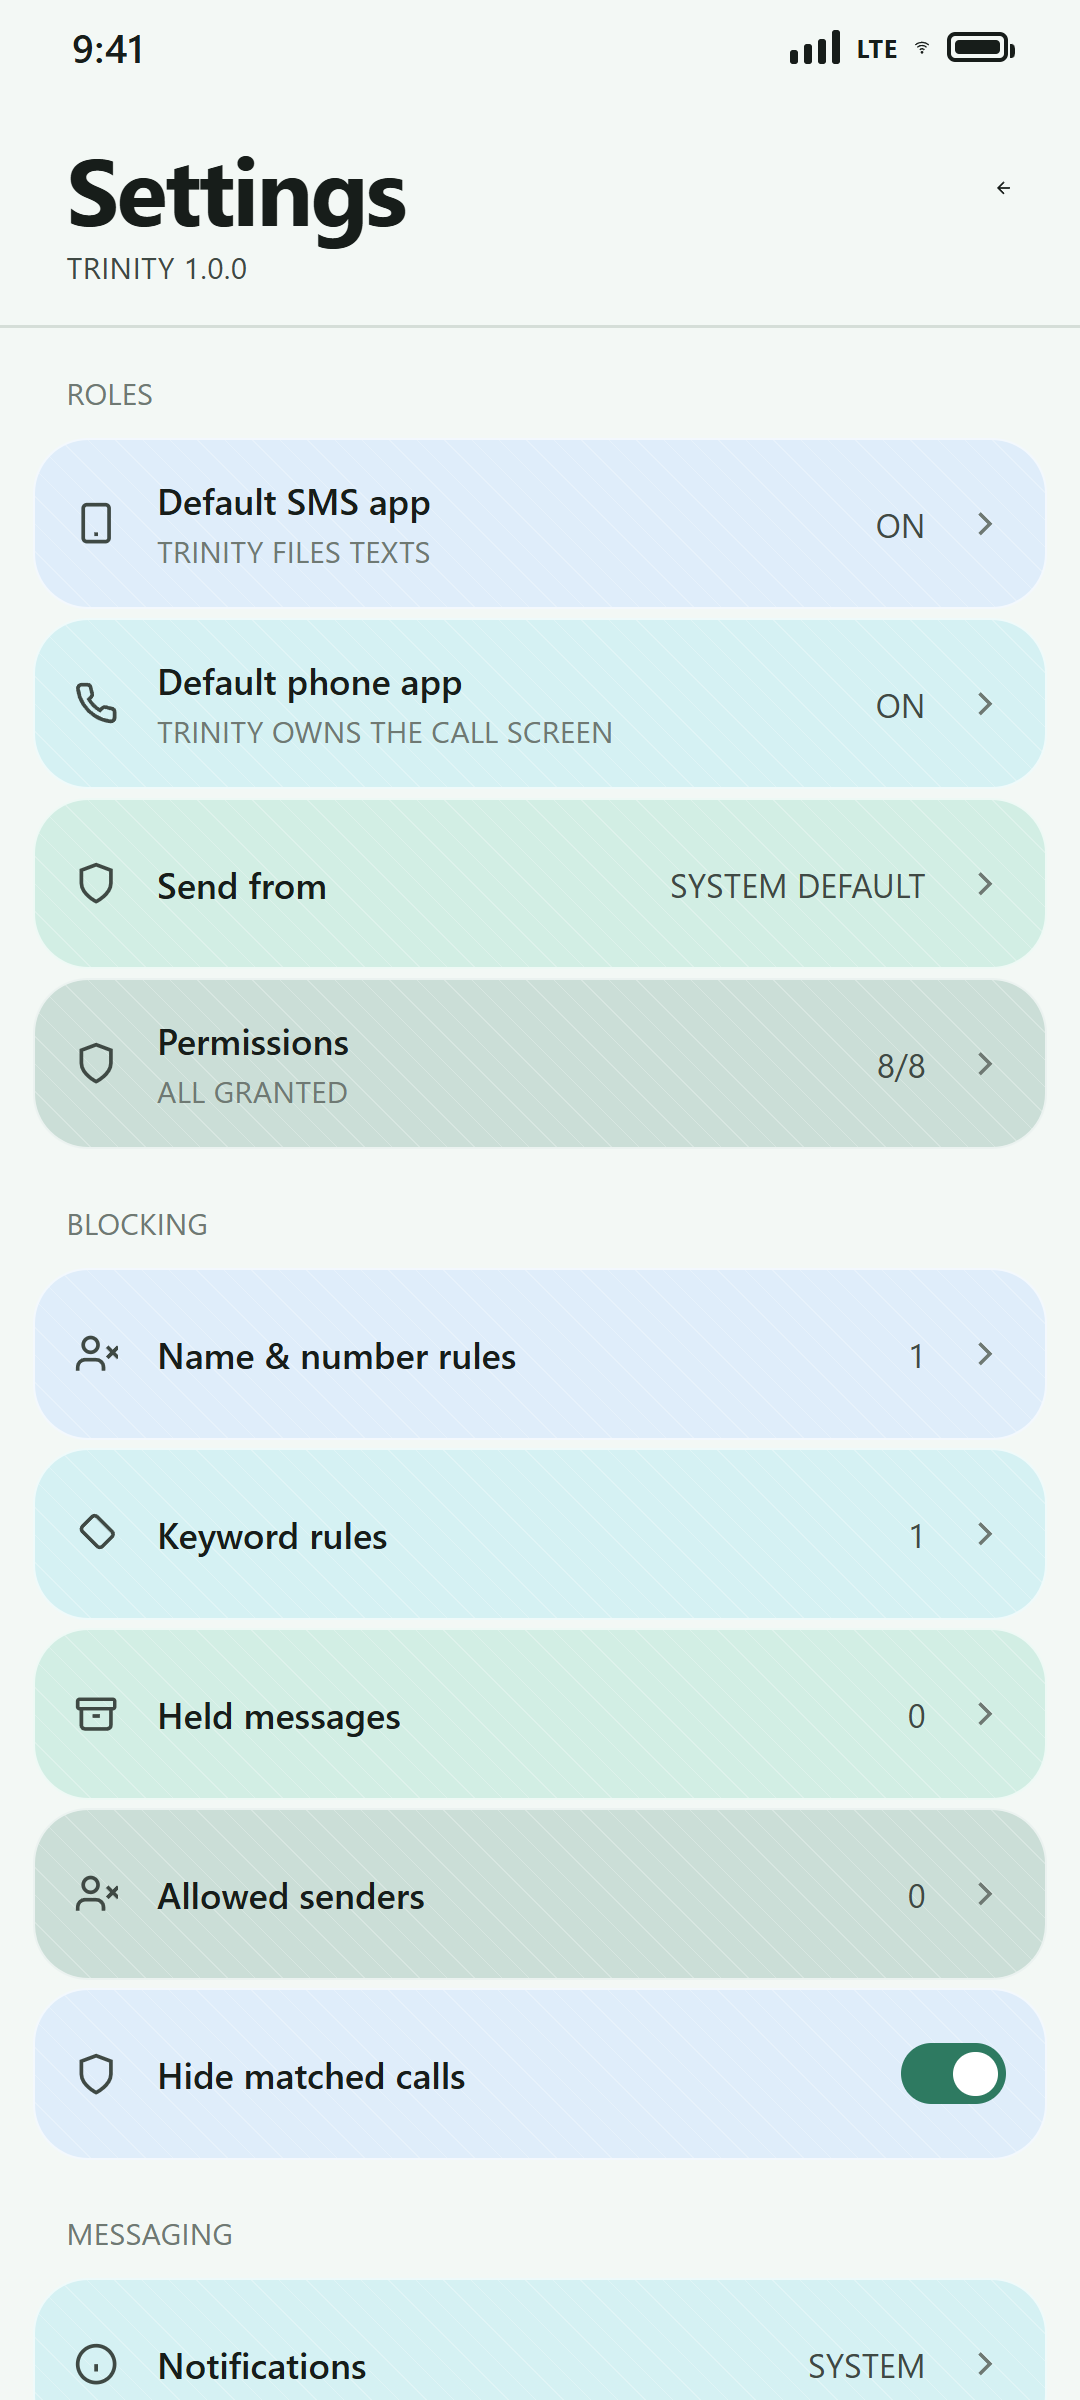
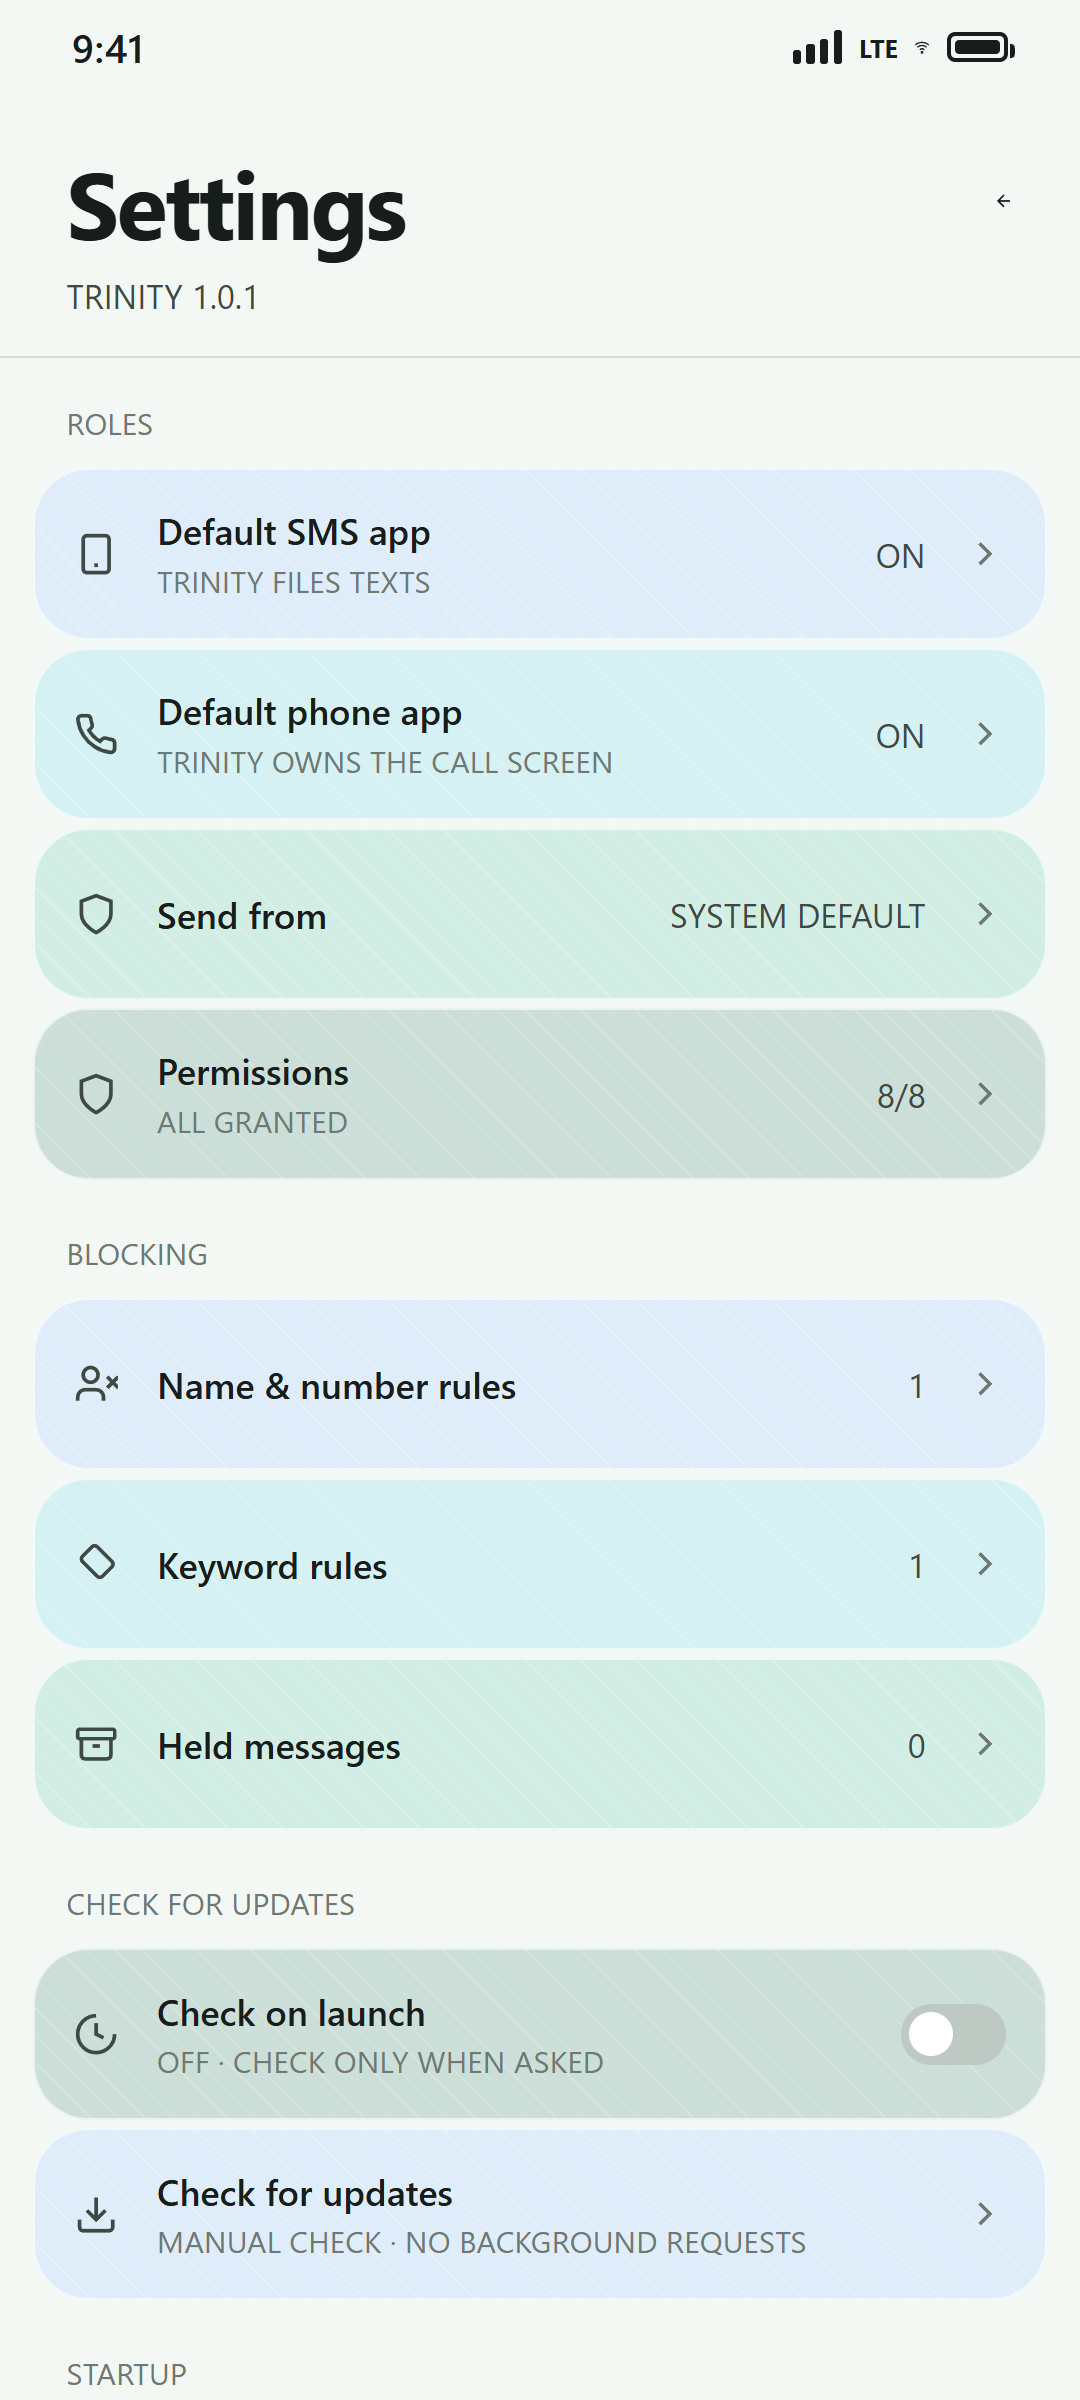
Make update checks opt-in and default to the Calls tab
Bump to 1.0.1 (versionCode 2) and refresh the listing screenshot.

diff --git a/app/src/main/java/com/sarim/trinity/ui/screens/SettingsScreen.kt b/app/src/main/java/com/sarim/trinity/ui/screens/SettingsScreen.kt
@@ -81,6 +81,7 @@ fun SettingsScreen(
     var confirm by remember { mutableStateOf<String?>(null) }
     var simSheet by remember { mutableStateOf(false) }
     var themeSheet by remember { mutableStateOf(false) }
+    var startTabSheet by remember { mutableStateOf(false) }
 
     fun open(intent: Intent) = runCatching { context.startActivity(intent.addFlags(Intent.FLAG_ACTIVITY_NEW_TASK)) }
 
@@ -250,6 +251,19 @@ fun SettingsScreen(
             onClick = { open(Intent(Settings.ACTION_ACCESSIBILITY_SETTINGS)) },
         )
 
+        SettingsSection("STARTUP")
+        SettingsRow(
+            label = "Start on",
+            value = when (state.startTab) {
+                0 -> "CALLS"
+                1 -> "MESSAGES"
+                else -> "CONTACTS"
+            },
+            sub = "FIRST SCREEN WHEN TRINITY OPENS",
+            icon = Icons.Outlined.Phone,
+            onClick = { startTabSheet = true },
+        )
+
         SettingsSection("CONTACTS")
         SettingsRow(
             label = "Import from file",
@@ -299,12 +313,25 @@ fun SettingsScreen(
             value = BuildConfig.VERSION_NAME,
             sub = if (BuildConfig.BUILD_TYPE == "release") "RELEASE BUILD" else "DEBUG BUILD",
         )
+        SettingsSection("CHECK FOR UPDATES")
+        SettingsRow(
+            label = "Check on launch",
+            sub = if (state.autoUpdateCheck) {
+                "ASKS GITHUB WHEN TRINITY OPENS"
+            } else {
+                "OFF · CHECK ONLY WHEN ASKED"
+            },
+            icon = Icons.Outlined.FileDownload,
+            toggle = state.autoUpdateCheck,
+            onToggle = { state.setUpdateCheckOnLaunch(it) },
+        )
         SettingsRow(
             label = if (state.availableUpdate != null) "Update available" else "Check for updates",
             value = state.availableUpdate?.version,
             sub = when {
                 state.checkingUpdate -> "CHECKING GITHUB…"
                 state.updateNote != null -> state.updateNote!!.uppercase()
+                !state.autoUpdateCheck -> "MANUAL CHECK · NO BACKGROUND REQUESTS"
                 else -> "COMPARES WITH THE LATEST GITHUB RELEASE"
             },
             icon = Icons.Outlined.FileDownload,
@@ -367,6 +394,24 @@ fun SettingsScreen(
                 ) { ThemePrefs.setBrightness(context, Brightness.Dark) },
             ),
             onDismiss = { themeSheet = false },
+        )
+    }
+
+    if (startTabSheet) {
+        InkSheet(
+            title = "START ON",
+            actions = listOf(
+                SheetAction("Calls", if (state.startTab == 0) "ON" else null) {
+                    state.selectStartTab(0)
+                },
+                SheetAction("Messages", if (state.startTab == 1) "ON" else null) {
+                    state.selectStartTab(1)
+                },
+                SheetAction("Contacts", if (state.startTab == 2) "ON" else null) {
+                    state.selectStartTab(2)
+                },
+            ),
+            onDismiss = { startTabSheet = false },
         )
     }
 

diff --git a/app/src/main/java/com/sarim/trinity/ui/TrinityState.kt b/app/src/main/java/com/sarim/trinity/ui/TrinityState.kt
@@ -65,6 +65,18 @@ class TrinityState(private val context: Context, private val scope: CoroutineSco
     private val threadPrefs = ThreadPrefs(context)
     private val simPrefs =
         context.applicationContext.getSharedPreferences("trinity.sims", Context.MODE_PRIVATE)
+    private val uiPrefs =
+        context.applicationContext.getSharedPreferences("trinity.ui", Context.MODE_PRIVATE)
+
+    /** Which tab opens first. Calls until the user picks another in Settings. */
+    var startTab by mutableStateOf(uiPrefs.getInt("start_tab", 0))
+        private set
+
+    fun selectStartTab(index: Int) {
+        val tab = index.coerceIn(0, 2)
+        startTab = tab
+        uiPrefs.edit().putInt("start_tab", tab).apply()
+    }
 
     var contacts by mutableStateOf<List<Person>>(emptyList())
         private set
@@ -705,8 +717,32 @@ class TrinityState(private val context: Context, private val scope: CoroutineSco
     var updateNote by mutableStateOf<String?>(null)
         private set
 
-    /** On launch: show what was found before, then look again if it has been a while. */
+    /** Off by default: Trinity never contacts GitHub unless the user asks for it. */
+    var autoUpdateCheck by mutableStateOf(updates.autoCheck())
+        private set
+
+    fun setUpdateCheckOnLaunch(enabled: Boolean) {
+        autoUpdateCheck = enabled
+        updates.setAutoCheck(enabled)
+        if (!enabled) {
+            availableUpdate = null
+            updateOverlay = false
+            updateNote = null
+            UpdateNotifier.cancel(context)
+        }
+    }
+
+    /**
+     * On launch, only when the user opted in: show what was found before, then look
+     * again if it has been a while. With the switch off nothing here touches the network.
+     */
     fun startUpdateWatch() {
+        if (!autoUpdateCheck) {
+            availableUpdate = null
+            updateOverlay = false
+            UpdateNotifier.cancel(context)
+            return
+        }
         val known = updates.cached()
         if (known != null) {
             availableUpdate = known

diff --git a/app/src/main/java/com/sarim/trinity/MainActivity.kt b/app/src/main/java/com/sarim/trinity/MainActivity.kt
@@ -144,7 +144,7 @@ private fun TrinityApp(
     val state = remember { TrinityState(context, scope) }
 
     var granted by remember { mutableStateOf(state.hasCorePermissions()) }
-    var route by remember { mutableStateOf<Route>(Route.Tab(1)) }
+    var route by remember { mutableStateOf<Route>(Route.Tab(state.startTab)) }
 
     // Back mirrors the way in: the stack is pushed on every step inward, so the
     // gesture undoes the last one (Held → Blocking → tab) instead of guessing.
@@ -162,6 +162,7 @@ private fun TrinityApp(
     fun parentOf(current: Route): Route = when (current) {
         is Route.CallDetail, Route.Dialpad -> Route.Tab(0)
         is Route.Contact, is Route.NewContact -> Route.Tab(2)
+        Route.Settings, Route.Blocking, Route.Held -> Route.Tab(state.startTab)
         else -> Route.Tab(1)
     }
 
@@ -288,7 +289,7 @@ private fun TrinityApp(
 
                 Route.Blocking -> BlockingScreen(
                     state = state,
-                    onBack = { go(Route.Tab(1)) },
+                    onBack = { go(Route.Tab(state.startTab)) },
                     onHeld = { go(Route.Held) },
                 )
 
@@ -313,7 +314,7 @@ private fun TrinityApp(
 
                 Route.Settings -> SettingsScreen(
                     state = state,
-                    onBack = { go(Route.Tab(1)) },
+                    onBack = { go(Route.Tab(state.startTab)) },
                     onBlocking = { go(Route.Blocking) },
                     onHeld = { go(Route.Held) },
                 )

diff --git a/app/src/main/java/com/sarim/trinity/data/Updates.kt b/app/src/main/java/com/sarim/trinity/data/Updates.kt
@@ -92,6 +92,13 @@ class UpdateChecker(context: Context) {
     fun due(now: Long = System.currentTimeMillis()): Boolean =
         now - prefs.getLong("checkedAt", 0L) > CHECK_EVERY_MS
 
+    /** Opt-in only: no automatic request is made until the user turns this on. */
+    fun autoCheck(): Boolean = prefs.getBoolean("auto_check", false)
+
+    fun setAutoCheck(enabled: Boolean) {
+        prefs.edit().putBoolean("auto_check", enabled).apply()
+    }
+
     fun isSkipped(version: String): Boolean = prefs.getString("skipped", null) == version
 
     fun skip(version: String) {
